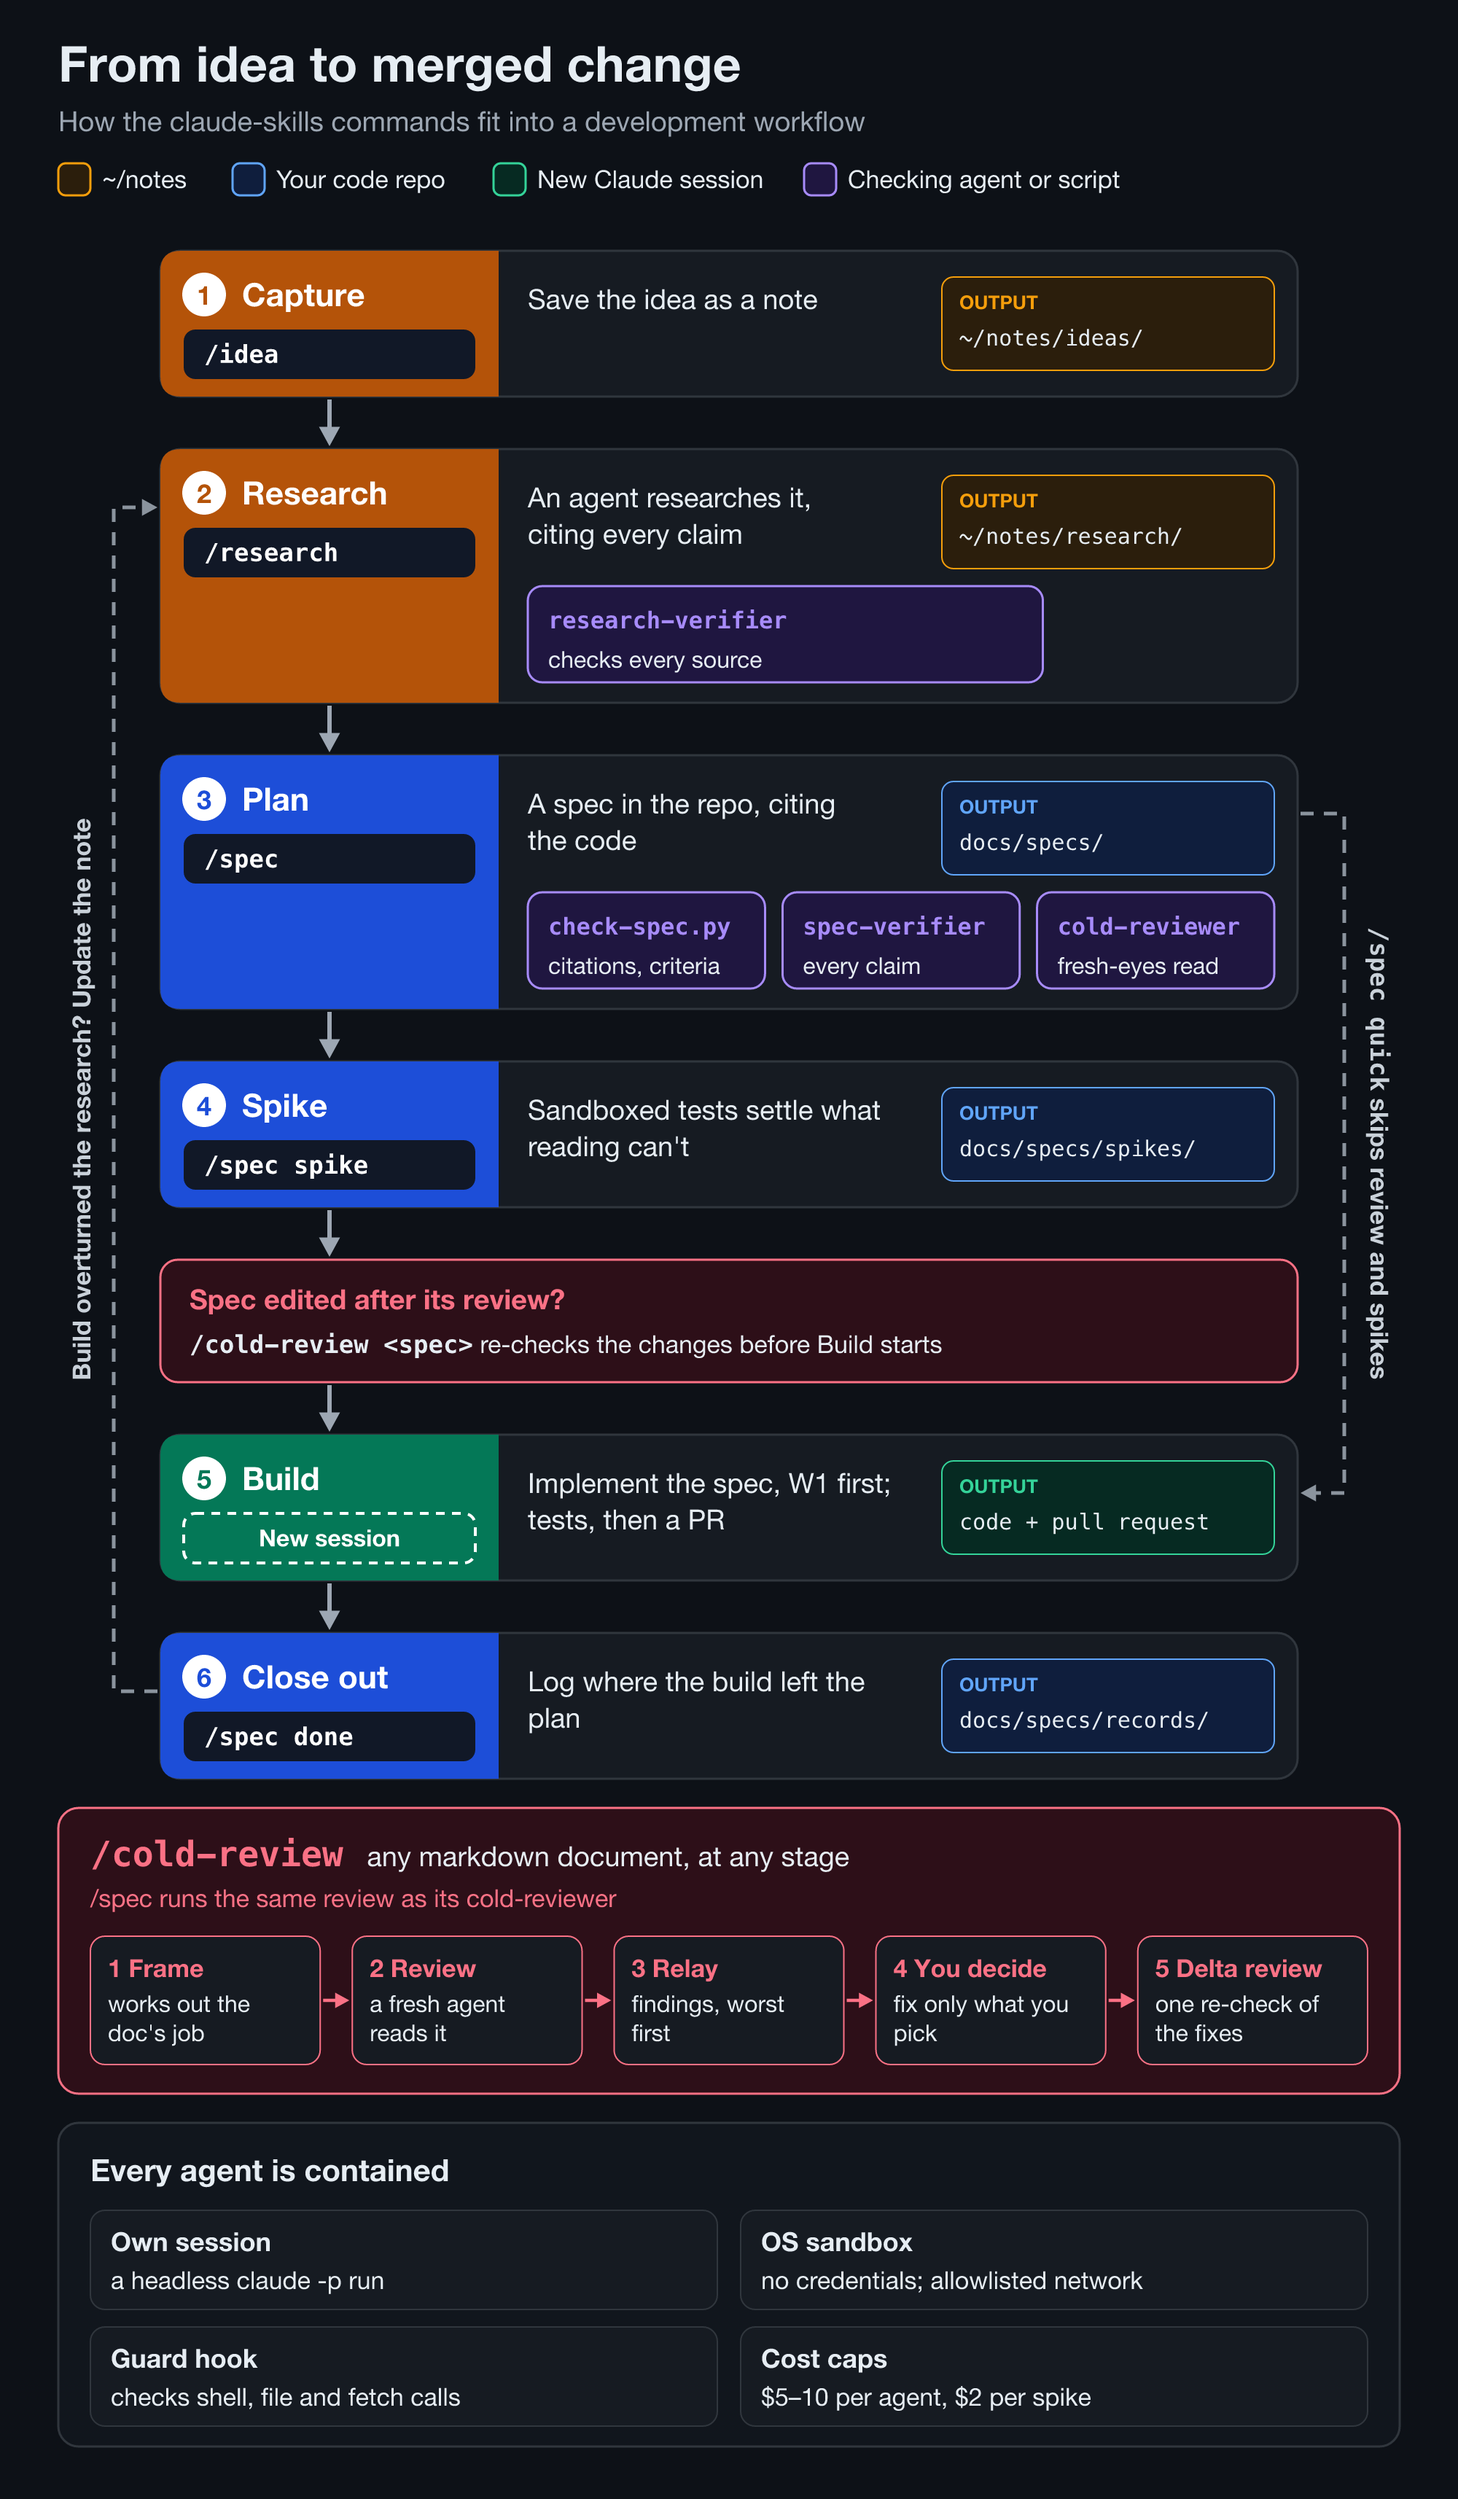
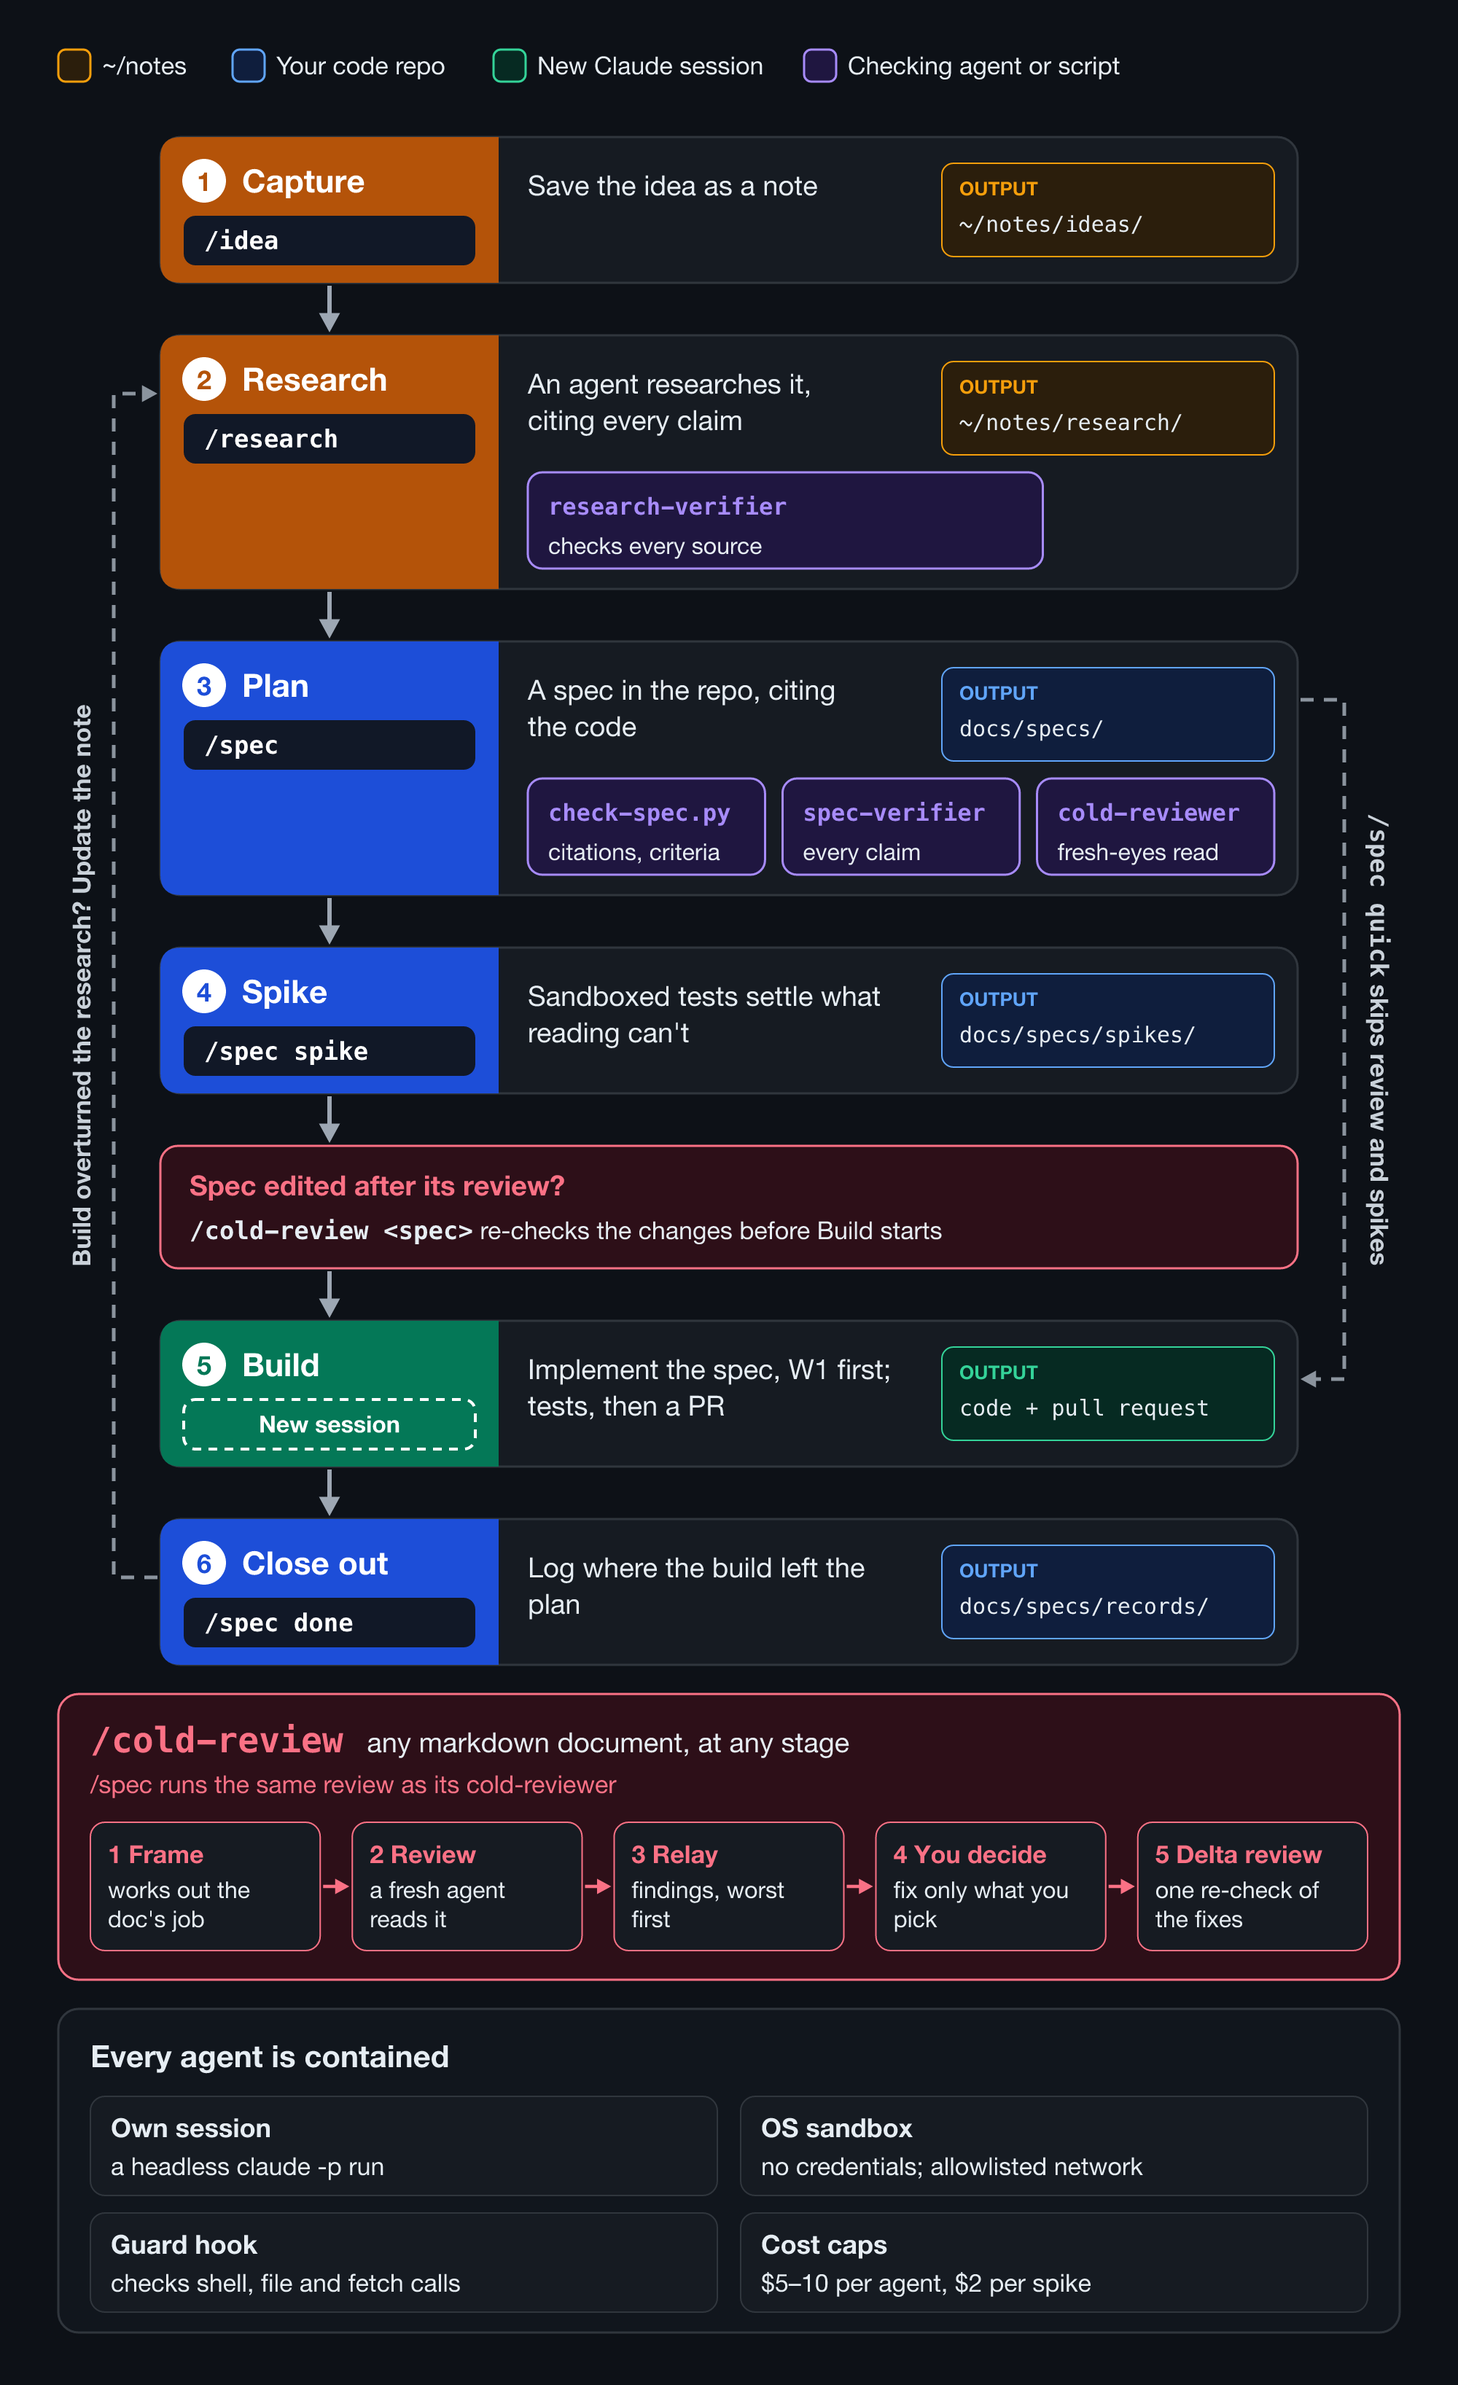
readme: give the workflow diagram its own heading and introduction
The diagram drops its title and subtitle, and the colour key moves to the top in their place.
In the README it now sits under "The workflow at a glance", after the glossary, with a short
paragraph on how to read it.

diff --git a/docs/diagram/workflow.py b/docs/diagram/workflow.py
@@ -96,8 +96,6 @@ LEGEND = [
     ("New Claude session", "session"),
     ("Checking agent or script", "check"),
 ]
-TITLE = "From idea to merged change"
-SUBTITLE = "How the claude-skills commands fit into a development workflow"
 
 # Each colour is (header fill, accent for text and strokes, tint for box fills).
 THEMES = {
@@ -342,7 +340,7 @@ def wide(theme):
     W, X0, GAP, PAD = 1800, 40, 30, 18
     CW = (W - 2 * X0 - 5 * GAP) / 6
     IW = CW - 2 * PAD
-    FEED_Y, TOP = 158, 204
+    FEED_Y, TOP = 112, 158
     xs = [X0 + i * (CW + GAP) for i in range(6)]
     cxs = [x + CW / 2 for x in xs]
     bodies = [wrap(s[4], IW, 19) for s in STAGES]
@@ -357,13 +355,11 @@ def wide(theme):
     GUARD_Y, GUARD_H = LANE_Y + LANE_H + 26, 118
     H = GUARD_Y + GUARD_H + 40
 
-    c.text(X0, 64, TITLE, size=40, weight="bold")
-    c.text(X0, 102, SUBTITLE, size=21, fill=t["muted"])
-    lx = W - X0 - 540
-    for j, (label, key) in enumerate(LEGEND):
-        xx, yy = lx + (j % 2) * 270, 50 + (j // 2) * 40
-        c.rect(xx, yy, 24, 24, c.col(key, "tint"), stroke=c.col(key, "accent"), r=5)
-        c.text(xx + 34, yy + 19, label, size=18)
+    lx = X0
+    for label, key in LEGEND:
+        c.rect(lx, 36, 24, 24, c.col(key, "tint"), stroke=c.col(key, "accent"), r=5)
+        c.text(lx + 34, 55, label, size=18)
+        lx += 34 + width_of(label, 18) + 40
 
     a, b = cxs[5], cxs[1]
     c.arrow(
@@ -541,15 +537,13 @@ def narrow(theme):
     DX = RX + BW + 20
     DW = RW - BW - 20 - OW - 32
 
-    c.text(X0, 56, TITLE, size=34, weight="bold")
-    c.text(X0, 90, SUBTITLE, size=19, fill=t["muted"])
     lx = X0
     for label, key in LEGEND:
-        c.rect(lx, 112, 22, 22, c.col(key, "tint"), stroke=c.col(key, "accent"), r=5)
-        c.text(lx + 30, 129, label, size=17)
+        c.rect(lx, 34, 22, 22, c.col(key, "tint"), stroke=c.col(key, "accent"), r=5)
+        c.text(lx + 30, 51, label, size=17)
         lx += 30 + width_of(label, 17) + 30
 
-    y = 172
+    y = 94
     rows = []
     for i, st in enumerate(STAGES):
         n, _, key = st[0], st[1], st[2]

diff --git a/README.md b/README.md
@@ -9,6 +9,23 @@ There are four commands. `/idea`, `/research` and `/spec` form one flow. `/cold-
 apart, and gives any markdown file the same cold review `/spec` gives a spec. Notes live in
 `~/notes`; specs live in the repo they describe.
 
+A few terms used throughout:
+
+- **Cold review**: one adversarial read of a document by an agent that has seen none of the
+  conversation that produced it.
+- **Delta review**: a single follow-up review covering only the changes made since the cold review.
+- **Spike**: a short, sandboxed experiment that answers a question reading the code can't settle.
+- **Record**: `records/<basename>-record.md` beside a document. It holds the document's review
+  history, so the document itself stays what its readers came for.
+
+## The workflow at a glance
+
+The diagram below follows one change from idea to merge. Each numbered stage shows the command
+you run, what it does and where its output lands; the purple boxes are the agents and scripts
+that check the work. The dashed lines are the routes off the main path, and the two bands at the
+bottom cover `/cold-review` and how every agent is kept contained. The sections after it explain
+each part in words.
+
 <picture>
   <source media="(prefers-color-scheme: dark)" srcset="docs/workflow-narrow-dark.png">
   <img src="docs/workflow-narrow.png" alt="Workflow diagram. Six stages run in order: Capture with /idea, Research with /research,
@@ -23,15 +40,6 @@ caps.">
 
 Full size: [light](docs/workflow.png), [dark](docs/workflow-dark.png). To change the diagram,
 edit and run `docs/diagram/workflow.py`.
-
-A few terms used throughout:
-
-- **Cold review**: one adversarial read of a document by an agent that has seen none of the
-  conversation that produced it.
-- **Delta review**: a single follow-up review covering only the changes made since the cold review.
-- **Spike**: a short, sandboxed experiment that answers a question reading the code can't settle.
-- **Record**: `records/<basename>-record.md` beside a document. It holds the document's review
-  history, so the document itself stays what its readers came for.
 
 ## How a change flows through it
 

diff --git a/records/README-record.md b/records/README-record.md
@@ -44,3 +44,4 @@ Needs a run: 1, 3, 9, 10
 - Not reviewed: What things cost and Checks add the skill evaluations, their cost and command, from the README delta review (2026-09-25) row 6, on 2026-09-25.
 - Not reviewed: a workflow diagram, `docs/workflow.png` (source `docs/workflow.svg`), added after the opening paragraphs, with alt text describing it, on 2026-09-25.
 - Not reviewed: the workflow diagram is now drawn by `docs/diagram/workflow.py` in a wide and a narrow layout, each light and dark; the README shows the narrow one, switching to dark with the viewer's theme, and links the full-size ones; arrowheads are drawn along their lines, on 2026-09-25.
+- Not reviewed: the diagram loses its title; it now sits under a new heading, The workflow at a glance, after the glossary, with a short paragraph saying how to read it, on 2026-09-25.
